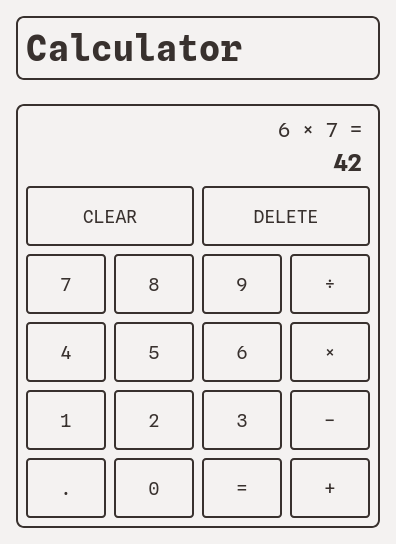
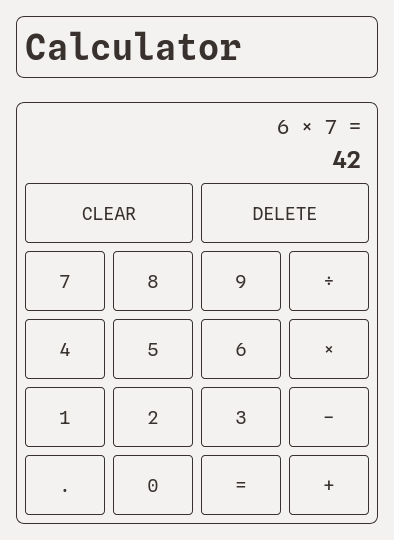
thinner borders and font-weight

diff --git a/code/styles.css b/code/styles.css
@@ -1,4 +1,4 @@
-@import url(https://fonts.bunny.net/css?family=spline-sans-mono:300,400,500,700);
+@import url(https://fonts.bunny.net/css?family=spline-sans-mono:300,400,500,600,700);
 
 :root {
     --bkg: hsl(20, 10%, 95%);
@@ -10,7 +10,7 @@
     --gap-size: min(8px, 0.5rem);
     --col-width: minmax(min-content, calc(32px + 3rem));
     --calc-width: calc(4 * var(--col-width) + 5 * var(--gap-size) + 4px);
-    --border: 2px solid var(--txt)
+    --border: 1px solid var(--txt)
 }
 
 /* General */
@@ -31,6 +31,7 @@ body {
 }
 
 h1 {
+    font-weight: 600;
     margin-top: 0;
 }
 
@@ -75,7 +76,7 @@ footer {
 
 #result {
     font-size: 1.5rem;
-    font-weight: bold;
+    font-weight: 600;
 }
 
 /* Buttons */
